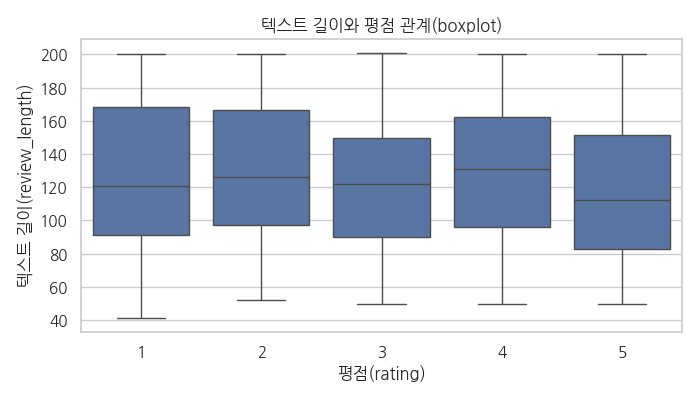
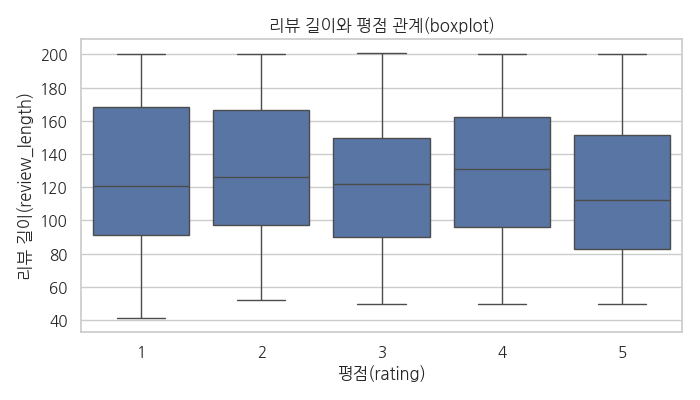
:sparkles: python EDA 실습 코드 작성중

Changed region(s): [[0.36, 0.03, 0.72, 0.09], [0.0, 0.21, 0.06, 0.72]]

diff --git a/eda_example/eda_reviews.py b/eda_example/eda_reviews.py
@@ -2,28 +2,10 @@
 # 작성자 : 임세하
 # 작성목적 : Pandas 와 Seaborn을 활용한 데이터 분석 실습
 # 기능 : Pandas로 AI 임베딩 전처리를 위한 통계 요약 및 이상치 탐지 / Seaborn으로 변수 간 관계 시각화
-# 실습 포인트 :
-# 1단계
-# - 데이터 전처리
-#  . reviews.csv 파일 호출
-#  . 결측치 확인/처리
-#  . 분포 시각화 및 이상치 탐지
-# 2단계
-# - 기술 통계 및 시각화
-#  . review_length 등 기술 통계 요약
-#  . category 별 평균 평점 시각화 (barplot)
-#  . 평점과 감성 점수 관계 시각화
-#  . 텍스트 길이와 평점의 관계 (boxplot or violinplot)
-# 3단계
-# - AI 분석을 위한 인사이트 도출
-#  . sentiment_score가 높을 수록 평점이 높나?
-#  . Review_length가 AI 임베딩 유사도에 영향을 줄 수 있나?
-#  . category 별 감성 점수 평균 차이는 존재?
-#  . 위의 질문에 대한 그래프 기반 해석 및 3줄 요약 Insight 작성
-# 4단계
-# - Report 작성
-#  . 결과 리포트 작성 시 제목/목차/시각화 포함
-#  . 분석 코드와 인사이트를 정리
+# 실습 포인트 : AI 분석을 위한 인사이트 도출
+#           - sentiment_score가 높을 수록 평점이 높은가?
+#           - Review_length가 AI 임베딩 유사도에 영향을 줄 수 있는가?
+#           - category 별 감성 점수 평균 차이는 존재하는가?
 # 작성일 : 2026-01-14
 # ------------------------------------------------------------
 
@@ -189,11 +171,9 @@ cat_summary = (
     )
     .sort_values("n", ascending=False)
 )
-print("\n[Category summary]")
-print(cat_summary)
 
 # =========================
-# 2-1) category 별 평균 평점 시각화 (barplot)
+# 2-1) category 별 평균 평점 시각화
 # =========================
 plt.figure(figsize=(8, 4))
 order = cat_summary.sort_values("rating_mean", ascending=False).index
@@ -206,7 +186,6 @@ plt.show()
 
 # =========================
 # 2-2) 평점과 감성 점수 관계 시각화
-#    - scatter + regression line
 # =========================
 plt.figure(figsize=(7, 4))
 sns.violinplot(data=df_clean, x="rating", y="sentiment_score", inner="quartile")
@@ -217,29 +196,21 @@ plt.tight_layout()
 plt.show()
 
 # =========================
-# 2-3) 텍스트 길이와 평점 관계 (boxplot or violinplot)
+# 2-3) 리뷰 길이와 평점 관계 시각화
 # =========================
 plt.figure(figsize=(7, 4))
 sns.boxplot(data=df_clean, x="rating", y="review_length")
-plt.title("텍스트 길이와 평점 관계(boxplot)")
+plt.title("리뷰 길이와 평점 관계(boxplot)")
 plt.xlabel("평점(rating)")
-plt.ylabel("텍스트 길이(review_length)")
-plt.tight_layout()
-plt.show()
-
-plt.figure(figsize=(7, 4))
-sns.violinplot(data=df_clean, x="rating", y="review_length", inner="quartile")
-plt.title("텍스트 길이와 평점 관계(violinplot)")
-plt.xlabel("평점(rating)")
-plt.ylabel("텍스트 길이(review_length)")
+plt.ylabel("리뷰 길이(review_length)")
 plt.tight_layout()
 plt.show()
 
 # =========================
 # 3) AI 분석을 위한 인사이트용 정량 체크
-#    - Q1 sentiment_score가 높을 수록 rating이 높은가? (상관/회귀, 그룹 평균)
-#    - Q2 review_length가 임베딩 유사도에 영향을 미치는가? (길이 proxy로 분산/패턴 확인)
-#    - Q3 category 별 sentiment 평균 차이 (ANOVA)
+#    - Q1 sentiment_score가 높을 수록 rating이 높은가?
+#    - Q2 review_length가 임베딩 유사도에 영향을 미치는가?
+#    - Q3 category 별 sentiment 평균 차이
 # =========================
 
 # Q1) 상관계수
@@ -254,17 +225,17 @@ sent_bin_summary = df_clean.groupby("sent_bin").agg(
     rating_mean=("rating", "mean"),
     sentiment_mean=("sentiment_score", "mean"),
 )
-print("\n[Sentiment Score bin summary]")
-print(sent_bin_summary)
 
 plt.figure(figsize=(9, 4))
 sns.barplot(data=sent_bin_summary.reset_index(), x="sent_bin", y="rating_mean")
-plt.title("Avg Rating by Sentiment Quantile Bin")
+plt.title("감성 점수 구간별 평균 평점")
+plt.xlabel("감성 점수 구간")
+plt.ylabel("평균 평점")
 plt.xticks(rotation=25, ha="right")
 plt.tight_layout()
 plt.show()
 
-# Q2) 길이 구간별 rating/sentiment 요약 (임베딩 품질/유사도 영향 가설의 근거로 활용)
+# Q2) 리뷰 길이 구간별 rating/sentiment 요약
 df_clean["len_bin"] = pd.qcut(df_clean["review_length"], q=5, duplicates="drop")
 len_bin_summary = df_clean.groupby("len_bin").agg(
     n=("review_id", "count"),
@@ -272,12 +243,12 @@ len_bin_summary = df_clean.groupby("len_bin").agg(
     sentiment_mean=("sentiment_score", "mean"),
     len_mean=("review_length", "mean"),
 )
-print("\n[Review Length bin summary]")
-print(len_bin_summary)
 
 plt.figure(figsize=(9, 4))
-sns.barplot(data=len_bin_summary.reset_index(), x="len_bin", y="rating_mean", marker="o")
-plt.title("Avg Rating by Review Length Quantile Bin")
+sns.barplot(data=len_bin_summary.reset_index(), x="len_bin", y="rating_mean")
+plt.title("리뷰 길이 구간별 평균 평점")
+plt.xlabel("리뷰 길이 구간")
+plt.ylabel("평균 평점")
 plt.xticks(rotation=25, ha="right")
 plt.tight_layout()
 plt.show()
@@ -291,9 +262,9 @@ print(anova)
 plt.figure(figsize=(8, 4))
 order2 = cat_summary.sort_values("sentiment_mean", ascending=False).index
 sns.barplot(data=df_clean, x="category", y="sentiment_score", order=order2, estimator=np.mean, errorbar="ci")
-plt.title("Average Sentiment Score by Category")
-plt.xlabel("category")
-plt.ylabel("avg sentiment_score")
+plt.title("카테고리 별 감성 점수 평균")
+plt.xlabel("카테고리")
+plt.ylabel("감성 점수 평균")
 plt.tight_layout()
 plt.show()
 

diff --git a/eda_example/README.md b/eda_example/README.md
@@ -279,11 +279,12 @@ AI 임베딩 및 유사도 분석 전,
 
 ---
 
-### 3.4 텍스트 길이와 평점 관계 분석 (boxplot)
+### 3.4 리뷰 길이와 평점 관계 분석 (boxplot)
 
 리뷰 길이(review_length)가 평점과 관계가 있는지 확인하기 위해 분포 기반으로 비교하였습니다.
 
-![텍스트 길이와 평점 관계](https://raw.githubusercontent.com/sehaim/skala-python/main/eda_example/output/review_length-avg_rating.png)
+![리뷰 길이와 평점 관계](https://raw.githubusercontent.com/sehaim/skala-python/main/eda_example/output/review_length-avg_rating.png)
+
 
 - 리뷰 길이와 평점 간 직접적인 관계는 뚜렷하지 않음
 
@@ -307,18 +308,26 @@ AI 임베딩 및 유사도 분석 전,
     n=("review_id", "count"),
     rating_mean=("rating", "mean"),
     sentiment_mean=("sentiment_score", "mean"),)
-    print("\n[Sentiment Score bin summary]")
-    print(sent_bin_summary)
+
+    plt.figure(figsize=(9, 4))
+    sns.barplot(data=sent_bin_summary.reset_index(), x="sent_bin", y="rating_mean")
+    plt.title("감성 점수 구간별 평균 평점")
+    plt.xlabel("감성 점수 구간")
+    plt.ylabel("평균 평점")
+    plt.xticks(rotation=25, ha="right")
+    plt.tight_layout()
+    plt.show()
     ```
 
 - 결과
 
     ![속성 간 상관계수 출력 결과](https://raw.githubusercontent.com/sehaim/skala-python/main/eda_example/output/correlation_matrix.png)
 
-    ![감성 점수와 평점의 관계 분석 출력 결과](https://raw.githubusercontent.com/sehaim/skala-python/main/eda_example/output/sentiment_score_bin.png)
+    - 상관계수 계산 결과, `sentiment_score`와 `rating`은 약 `0.73`의 강한 양의 상관관계를 보였습니다.
 
-- 상관계수 결과, `sentiment_score`와 `rating`은 약 `0.73`의 강한 양의 상관관계를 보였습니다.
-- 감성 점수 분위수가 높아질수록 평균 평점이 단계적으로 상승하여, 감성 점수가 평점 및 추천 모델에 중요한 신호로 작용할 가능성이 높습니다.
+    ![감성 점수와 평점의 관계 분석 출력 결과](https://raw.githubusercontent.com/sehaim/skala-python/main/eda_example/output/sentiment_score_bin-avg_rating.png)
+
+    - 감성 점수 분위수가 높아질수록 평균 평점이 단계적으로 상승하여, 감성 점수가 평점 및 추천 모델에 중요한 신호로 작용할 가능성이 높습니다.
 
 ### 4.2 리뷰 길이와 임베딩 유사도 영향 가능성
 
@@ -334,12 +343,17 @@ AI 임베딩 및 유사도 분석 전,
     sentiment_mean=("sentiment_score", "mean"),
     len_mean=("review_length", "mean"),)
 
-    print("\n[Review Length bin summary]")
-    print(len_bin_summary)
+    plt.figure(figsize=(9, 4))
+    sns.barplot(data=len_bin_summary.reset_index(), x="len_bin", y="rating_mean")
+    plt.title("리뷰 길이 구간별 평균 평점")
+    plt.xticks(rotation=25, ha="right")
+    plt.tight_layout()
+    plt.show()
     ```
 - 결과
 
-    ![리뷰 길이와 임베딩 유사도 영향 가능성 출력 결과](https://raw.githubusercontent.com/sehaim/skala-python/main/eda_example/output/review_length-bin.png)
+    ![리뷰 길이와 임베딩 유사도 영향 가능성 출력 결과](https://raw.githubusercontent.com/sehaim/skala-python/main/eda_example/output/review_length_bin-avg_rating.png)
+
 
 - 리뷰 길이 구간별 평균 평점은 큰 폭으로 단조 증가/감소하지 않아, 길이가 평점에 직접적 영향을 주는 변수로 보이진 않았습니다. 다만 임베딩 관점에서는 너무 짧은 텍스트가 정보 부족을 유발할 수 있고, 너무 긴 텍스트는 노이즈 증가/비용 증가를 야기할 수 있으므로 적정 길이 범위를 고려할 필요가 있습니다.
 
@@ -358,7 +372,7 @@ AI 임베딩 및 유사도 분석 전,
 
 - 결과
 
-    ![카테고리별 감성 점수 차이 분석 출력 결과](https://raw.githubusercontent.com/sehaim/skala-python/main/eda_example/output/text.png)
+    ![카테고리별 감성 점수 차이 분석 출력 결과](https://raw.githubusercontent.com/sehaim/skala-python/main/eda_example/output/category-avg_sentiment.png)
 
 - ANOVA 결과를 통해 카테고리별 감성 점수 평균 차이가 존재할 가능성을 확인하였으며, 추천 모델 설계 시 category 정보를 보조 변수로 활용할 여지가 있습니다.
 
